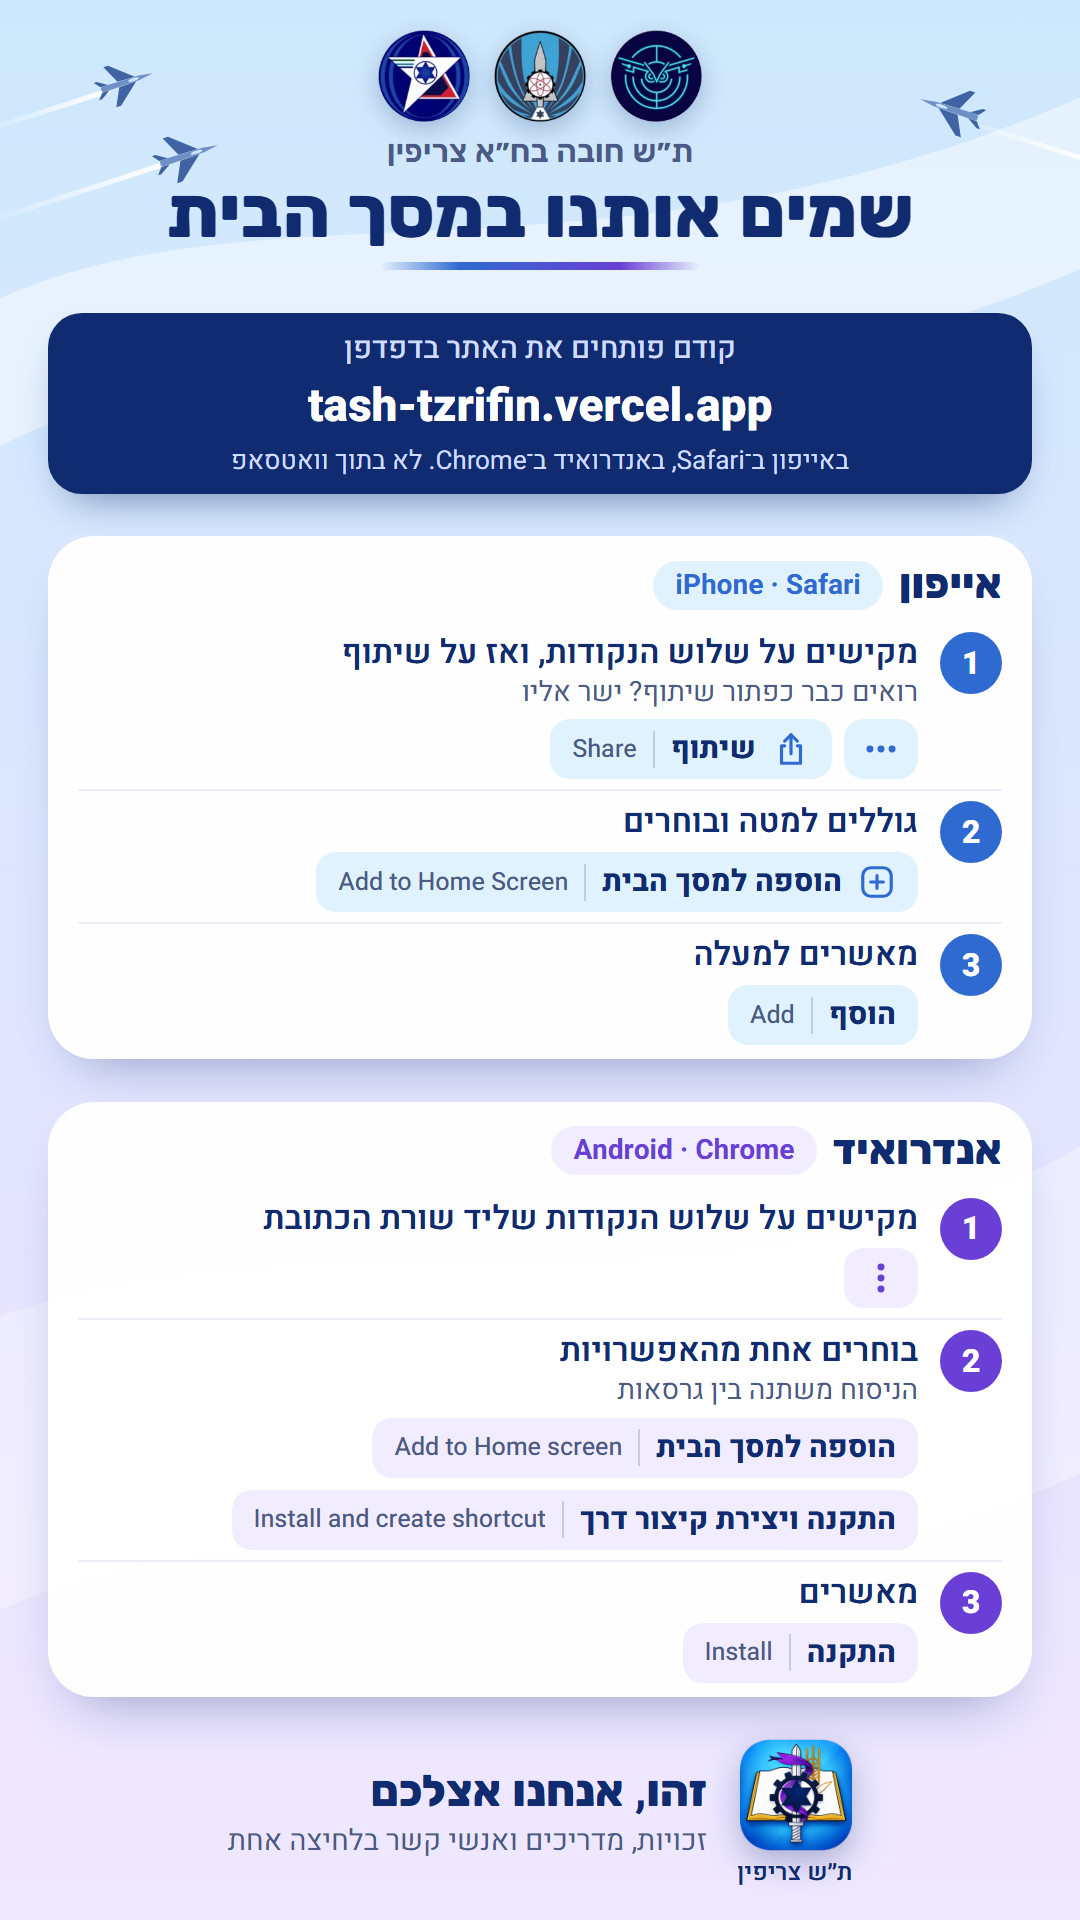
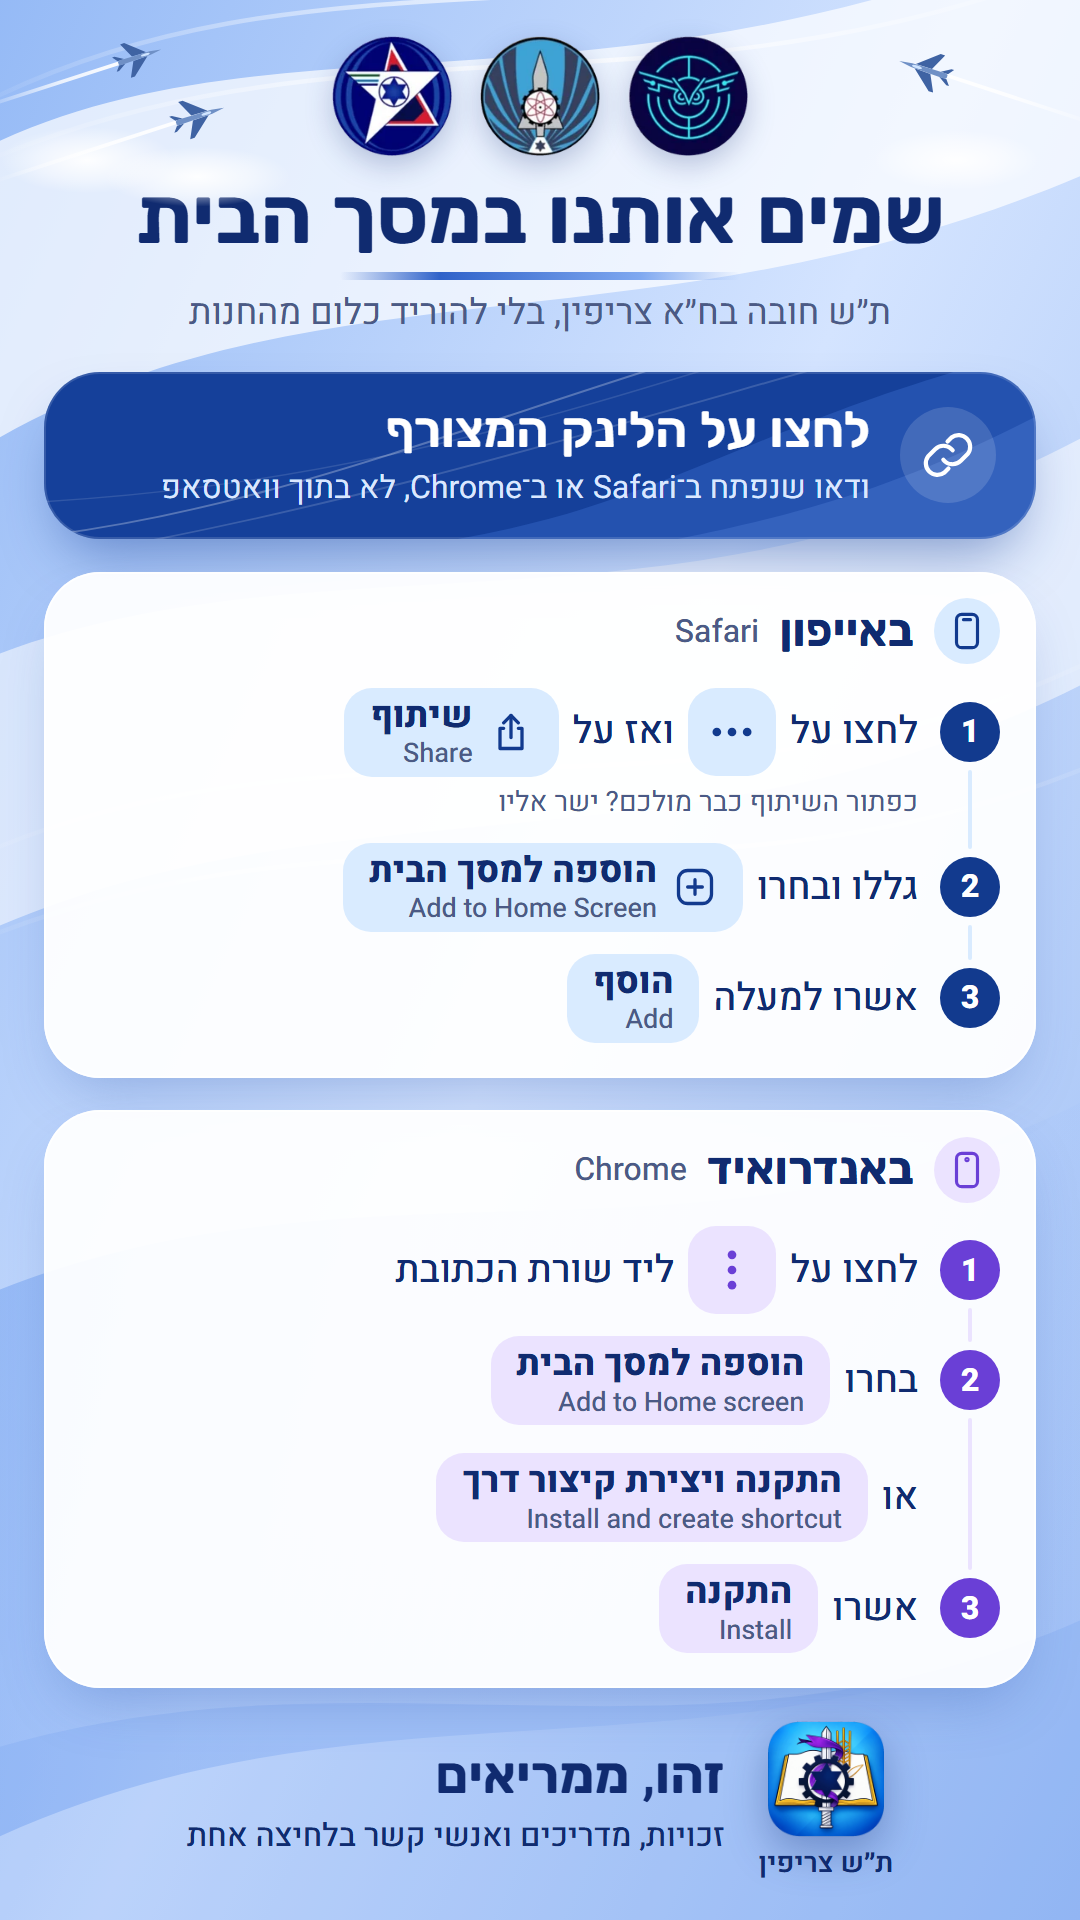
Flyer: redesign in the home page's visual language (same sky and wave tile artwork), ask to tap the attached link instead of printing the address

diff --git a/design/flyer/flyer.html b/design/flyer/flyer.html
@@ -6,139 +6,158 @@
 @font-face{font-family:H;src:url(../../node_modules/@fontsource-variable/heebo/files/heebo-hebrew-wght-normal.woff2);font-weight:100 900;unicode-range:U+0590-05FF,U+200C-2010,U+20AA,U+FB1D-FB4F}
 @font-face{font-family:H;src:url(../../node_modules/@fontsource-variable/heebo/files/heebo-latin-wght-normal.woff2);font-weight:100 900;unicode-range:U+0000-00FF,U+2013-2014,U+2018-2019,U+201C-201D,U+2022,U+2026}
 @font-face{font-family:R;src:url(../../node_modules/@fontsource-variable/rubik/files/rubik-hebrew-wght-normal.woff2);font-weight:300 900;unicode-range:U+0590-05FF,U+200C-2010,U+20AA,U+FB1D-FB4F}
-:root{--navy:#102b70;--blue:#2f6ad0;--sky:#e0f2fe;--purple:#6a3fd6;--soft-purple:#f1ecff;--ink-soft:#4b5a86}
+
+/* הצבעים, הרקע והכרטיסים לקוחים מדף הבית באתר */
+:root{--navy:#102b70;--ink-soft:#4b5a86;--deep-tile:#15409a}
 *{box-sizing:border-box;margin:0;padding:0}
 html,body{width:1080px;height:1920px;overflow:hidden}
-body{font-family:H,sans-serif;color:var(--navy);position:relative;
-  background:linear-gradient(180deg,#cde8fc 0%,#d9e8fe 30%,#e8e4ff 72%,#efe8ff 100%)}
-.bg{position:absolute;inset:0;width:1080px;height:1920px}
-main{position:relative;height:100%;padding:30px 48px;gap:20px;display:flex;flex-direction:column;justify-content:space-between}
+body{font-family:H,sans-serif;color:var(--navy);background:#d3e3fb url(bg-home.svg) center/cover no-repeat}
+svg.i{fill:none;stroke:currentColor;stroke-width:1.8;stroke-linecap:round;stroke-linejoin:round;flex:none}
+main{height:100%;gap:22px;padding:36px 44px 36px;display:flex;flex-direction:column;justify-content:space-between}
 
-header{text-align:center}
-.units{display:flex;justify-content:center;gap:24px}
-.units img{width:92px;height:92px;filter:drop-shadow(0 8px 12px rgb(16 43 112 / .25))}
-.org{margin-top:6px;font:600 32px R,H;color:var(--ink-soft)}
-h1{font:800 72px/1.1 R,H}
-.line{width:320px;height:8px;border-radius:8px;margin:8px auto 0;
-  background:linear-gradient(90deg,transparent,var(--blue) 25%,var(--purple) 75%,transparent)}
+header{position:relative;text-align:center}
+.units{display:flex;justify-content:center;gap:28px}
+.units img{width:120px;height:120px;filter:drop-shadow(0 10px 14px rgb(16 43 112 / .24))}
+.sky{position:absolute;width:250px;height:160px;overflow:visible;top:-6px}
+.sky.l{left:-20px}
+.sky.r{right:-20px;transform:scaleX(-1)}
+h1{font:700 80px/1.1 R,H;margin-top:18px;white-space:nowrap}
+.title-line{height:8px;width:400px;border-radius:8px;margin:10px auto 0;
+  background:linear-gradient(90deg,rgb(16 43 112 / 0),#2f62c9 25%,#7fa8f0 75%,rgb(127 168 240 / 0))}
+.lead{font-size:36px;color:var(--ink-soft);margin-top:6px;white-space:nowrap}
 
-.open{background:var(--navy);color:#fff;border-radius:34px;padding:14px 30px;text-align:center;
-  box-shadow:0 22px 44px -22px rgb(16 43 112 / .6)}
-.open p{font-size:30px;font-weight:500;color:#cfdcff}
-.open .url{display:block;direction:ltr;font-size:46px;font-weight:800;margin:2px 0}
-.open small{display:block;font-size:26px;color:#cfdcff}
+/* כרטיס כחול כמו "זכויות והטבות" */
+.link{display:flex;align-items:center;gap:30px;padding:30px 40px;border-radius:56px;color:#fff;
+  background:var(--deep-tile) url(tile-waves.svg) center/100% 100% no-repeat;
+  box-shadow:0 30px 56px -18px rgb(21 64 154 / .5),inset 0 0 0 2px rgb(255 255 255 / .14)}
+.link .ico{width:96px;height:96px;border-radius:50%;background:rgb(255 255 255 / .14);display:grid;place-items:center}
+.link .ico svg{width:56px;height:56px}
+.link strong{display:block;font:600 50px/1.2 R,H}
+.link span.d{display:block;font-size:32px;color:#dbe7ff;margin-top:4px;line-height:1.35}
 
-section{--accent:var(--blue);--wash:var(--sky);background:rgb(255 255 255 / .96);border-radius:46px;padding:18px 30px 4px;
-  box-shadow:0 28px 56px -30px rgb(16 43 112 / .45)}
-section.android{--accent:var(--purple);--wash:var(--soft-purple)}
-h2{font:800 42px R,H;display:flex;align-items:center;gap:16px;margin-bottom:6px}
-h2 .tag{direction:ltr;font:700 28px H;color:var(--accent);background:var(--wash);border-radius:99px;padding:4px 22px;margin-inline-start:auto}
+section{--accent:#123a8e;--wash:#d9ebff;background:rgb(255 255 255 / .94);border-radius:56px;padding:26px 36px 24px;
+  box-shadow:0 28px 60px -22px rgb(40 80 170 / .35),inset 0 0 0 2px rgb(255 255 255 / .8)}
+section.android{--accent:#6a3fd6;--wash:#ebe3ff}
+h2{display:flex;align-items:center;gap:20px;font:700 46px R,H;margin-bottom:12px}
+h2 .ico{width:66px;height:66px;border-radius:50%;background:var(--wash);color:var(--accent);display:grid;place-items:center}
+h2 .ico svg{width:42px;height:42px}
+h2 small{font:500 32px H;color:var(--ink-soft);margin-inline-start:auto;direction:ltr}
+
 ol{list-style:none}
-li{display:grid;grid-template-columns:62px 1fr;gap:22px;padding:10px 0}
-li+li{border-top:2px solid #e9eef9}
-.n{width:62px;height:62px;border-radius:50%;background:var(--accent);color:#fff;font:800 32px H;display:grid;place-items:center}
-.t{font-size:33px;font-weight:600;line-height:1.3}
-.t em{display:block;font-size:28px;font-style:normal;color:var(--ink-soft);font-weight:400}
-.keys{display:flex;flex-wrap:wrap;align-items:center;gap:12px;margin-top:8px}
-.key{display:flex;align-items:center;gap:16px;background:var(--wash);border-radius:20px;padding:8px 22px;min-height:60px}
-.key b{font-size:30px;font-weight:800;white-space:nowrap}
-.key i{font-style:normal;direction:ltr;font-size:25px;font-weight:500;color:var(--ink-soft);white-space:nowrap;
-  border-right:2px solid rgb(16 43 112 / .18);padding-right:16px}
-.key svg{width:38px;height:38px;flex:none;color:var(--accent)}
-.key.icon-only{padding:8px 18px}
-.or{font-size:26px;color:var(--ink-soft)}
+li{display:flex;align-items:flex-start;gap:22px;padding:11px 0;position:relative}
+.n{width:60px;height:60px;border-radius:50%;background:var(--accent);color:#fff;font:800 32px H;display:grid;place-items:center;flex:none;margin-top:14px}
+li:not(:last-child)::after{content:"";position:absolute;right:28px;width:4px;top:93px;bottom:-17px;border-radius:4px;background:var(--wash)}
+.body{min-height:88px;align-content:center;display:flex;flex-wrap:wrap;align-items:center;gap:14px;font-size:38px;font-weight:500;line-height:1.3;flex:1}
+.or{flex-basis:100%;height:0;margin-top:-14px}
+.note{flex-basis:100%;font-size:28px;font-weight:400;color:var(--ink-soft);margin-top:-6px}
 
-footer{display:flex;align-items:center;justify-content:center;gap:30px}
+/* כפתור כפי שהוא מופיע בטלפון: עברית ומתחתיה אנגלית */
+.key{display:inline-flex;align-items:center;gap:16px;min-height:88px;padding:6px 26px;border-radius:28px;background:var(--wash)}
+.key b{display:block;font-size:36px;font-weight:800;line-height:1.2;white-space:nowrap}
+.key i{display:block;font-style:normal;font-size:27px;line-height:1.25;color:var(--ink-soft);direction:ltr;text-align:right;white-space:nowrap}
+.key svg{width:44px;height:44px;color:var(--accent)}
+.key.dots{width:88px;padding:0;justify-content:center}
+.key.dots svg{width:52px;height:52px}
+
+footer{display:flex;align-items:center;justify-content:center;gap:34px}
 footer figure{text-align:center}
-footer img{width:112px;height:112px;display:block;filter:drop-shadow(0 12px 16px rgb(16 43 112 / .3))}
-footer figcaption{font-size:24px;font-weight:600;margin-top:4px}
-footer p{font:800 44px/1.2 R,H}
-footer p span{display:block;font:400 29px H;color:var(--ink-soft)}
+footer img{width:116px;height:116px;display:block;margin:auto;filter:drop-shadow(0 16px 20px rgb(16 43 112 / .32))}
+footer figcaption{font-size:28px;font-weight:600;margin-top:6px}
+footer p{font:700 52px/1.2 R,H}
+footer p span{display:block;font:500 32px H;color:var(--navy);margin-top:4px}
 </style>
 </head>
 <body>
-<svg class="bg" viewBox="0 0 1080 1920" aria-hidden="true">
+<svg width="0" height="0" style="position:absolute" aria-hidden="true">
   <defs>
-    <linearGradient id="trail" x1="0" x2="1"><stop offset="0" stop-color="#fff" stop-opacity="0"/><stop offset="1" stop-color="#fff"/></linearGradient>
+    <linearGradient id="tr" x1="0" y1="0" x2="1" y2="0"><stop offset="0" stop-color="#fff" stop-opacity="0"/><stop offset=".6" stop-color="#fff" stop-opacity=".8"/><stop offset="1" stop-color="#fff" stop-opacity=".95"/></linearGradient>
+    <radialGradient id="cl"><stop offset="0" stop-color="#fff" stop-opacity=".95"/><stop offset=".6" stop-color="#fff" stop-opacity=".45"/><stop offset="1" stop-color="#fff" stop-opacity="0"/></radialGradient>
     <symbol id="jet" viewBox="-34 -24 68 48" overflow="visible">
       <path d="M10-2.4-12-21h-5L-8-2.8Z M10 2.4-12 21h-5L-8 2.8Z" fill="#3f63a3"/>
       <path d="M-18-2.8-28-9h-3l5 6.2Z M-18 2.8-28 9h-3l5-6.2Z" fill="#3f63a3"/>
       <path d="M28 0 14-2.2-6-2.6-24-3l-2 1.4v3.2L-24 3-6 2.6 14 2.2Z" fill="#6f90c6"/>
       <ellipse cx="8" cy="0" rx="5.5" ry="1.5" fill="#cfe4ff"/>
     </symbol>
+    <symbol id="dots" viewBox="0 0 24 24"><circle cx="5" cy="12" r="2"/><circle cx="12" cy="12" r="2"/><circle cx="19" cy="12" r="2"/></symbol>
   </defs>
-  <path d="M-60 330C230 150 600 330 1140 70V240C660 490 280 260-60 480Z" fill="#fff" opacity=".45"/>
-  <path d="M-60 1340C320 1170 740 1380 1140 1110V1440C730 1690 330 1420-60 1640Z" fill="#fff" opacity=".3"/>
-  <g stroke="url(#trail)" stroke-width="5" stroke-linecap="round" fill="none">
-    <path d="M-20 132 108 91"/><path d="M-20 224 168 163"/><path d="M1100 164 962 120" />
-  </g>
-  <use href="#jet" x="92" y="58" width="68" height="48" transform="rotate(-18 126 82)"/>
-  <use href="#jet" x="150" y="128" width="76" height="54" transform="rotate(-18 188 155)"/>
-  <use href="#jet" x="912" y="82" width="76" height="54" transform="rotate(198 950 109)"/>
 </svg>
 
 <main>
   <header>
+    <!-- אותם מטוסים כמו בכותרת של דף הבית -->
+    <svg class="sky l" viewBox="0 0 150 96" aria-hidden="true">
+      <ellipse cx="38" cy="78" rx="52" ry="20" fill="url(#cl)"/><ellipse cx="104" cy="88" rx="56" ry="18" fill="url(#cl)"/>
+      <g stroke="url(#tr)" stroke-linecap="round" fill="none" stroke-width="2.2"><path d="M-30 48 57 20"/><path d="M-20 91.5 91 55.5"/></g>
+      <use href="#jet" x="52" y="4" width="34" height="24" transform="rotate(-18 69 16)"/><use href="#jet" x="86" y="38" width="38" height="27" transform="rotate(-18 105 51)"/>
+    </svg>
+    <svg class="sky r" viewBox="0 0 150 96" aria-hidden="true">
+      <ellipse cx="60" cy="78" rx="50" ry="18" fill="url(#cl)"/>
+      <path d="M-30 58.5 65 27.5" stroke="url(#tr)" stroke-linecap="round" fill="none" stroke-width="2.2"/>
+      <use href="#jet" x="60" y="10" width="38" height="27" transform="rotate(-18 79 23)"/>
+    </svg>
     <div class="units">
-      <img src="../../public/logos/ofek.webp" alt="">
-      <img src="../../public/logos/f108.webp" alt="">
-      <img src="../../public/logos/lahav.webp" alt="">
+      <img src="../../public/logos/ofek.webp" alt="אופק">
+      <img src="../../public/logos/f108.webp" alt="108">
+      <img src="../../public/logos/lahav.webp" alt="לה״ב">
     </div>
-    <div class="org">ת״ש חובה בח״א צריפין</div>
     <h1>שמים אותנו במסך הבית</h1>
-    <div class="line"></div>
+    <div class="title-line"></div>
+    <p class="lead">ת״ש חובה בח״א צריפין, בלי להוריד כלום מהחנות</p>
   </header>
 
-  <div class="open">
-    <p>קודם פותחים את האתר בדפדפן</p>
-    <span class="url">tash-tzrifin.vercel.app</span>
-    <small>באייפון ב־Safari, באנדרואיד ב־Chrome. לא בתוך וואטסאפ</small>
+  <div class="link">
+    <span class="ico"><svg class="i" viewBox="0 0 24 24"><path d="M10 14a5 5 0 0 0 7.5.5l3-3a5 5 0 0 0-7-7l-1.7 1.7"/><path d="M14 10a5 5 0 0 0-7.5-.5l-3 3a5 5 0 0 0 7 7l1.7-1.7"/></svg></span>
+    <div>
+      <strong>לחצו על הלינק המצורף</strong>
+      <span class="d">ודאו שנפתח ב־Safari או ב־Chrome, לא בתוך וואטסאפ</span>
+    </div>
   </div>
 
   <section class="iphone">
-    <h2>אייפון <span class="tag">iPhone · Safari</span></h2>
+    <h2>
+      <span class="ico"><svg class="i" viewBox="0 0 24 24"><rect x="6" y="2.5" width="12" height="19" rx="3"/><path d="M10 5.5h4"/></svg></span>
+      באייפון<small>Safari</small>
+    </h2>
     <ol>
-      <li><span class="n">1</span><div>
-        <div class="t">מקישים על שלוש הנקודות, ואז על שיתוף <em>רואים כבר כפתור שיתוף? ישר אליו</em></div>
-        <div class="keys">
-          <span class="key icon-only"><svg viewBox="0 0 24 24" fill="currentColor"><circle cx="5" cy="12" r="2.2"/><circle cx="12" cy="12" r="2.2"/><circle cx="19" cy="12" r="2.2"/></svg></span>
-          <span class="key"><svg viewBox="0 0 24 24" fill="none" stroke="currentColor" stroke-width="2" stroke-linecap="round" stroke-linejoin="round"><path d="M12 15V3"/><path d="m8 7 4-4 4 4"/><path d="M8 10H6v11h12V10h-2"/></svg><b>שיתוף</b><i>Share</i></span>
-        </div>
+      <li><span class="n">1</span><div class="body">
+        לחצו על
+        <span class="key dots"><svg fill="currentColor"><use href="#dots"/></svg></span>
+        ואז על
+        <span class="key"><svg class="i" viewBox="0 0 24 24"><path d="M12 15V3"/><path d="m8 7 4-4 4 4"/><path d="M8 10H6v11h12V10h-2"/></svg><span><b>שיתוף</b><i>Share</i></span></span>
+        <span class="note">כפתור השיתוף כבר מולכם? ישר אליו</span>
       </div></li>
-      <li><span class="n">2</span><div>
-        <div class="t">גוללים למטה ובוחרים</div>
-        <div class="keys">
-          <span class="key"><svg viewBox="0 0 24 24" fill="none" stroke="currentColor" stroke-width="2" stroke-linecap="round"><rect x="3" y="3" width="18" height="18" rx="5"/><path d="M12 8v8M8 12h8"/></svg><b>הוספה למסך הבית</b><i>Add to Home Screen</i></span>
-        </div>
+      <li><span class="n">2</span><div class="body">
+        גללו ובחרו
+        <span class="key"><svg class="i" viewBox="0 0 24 24"><rect x="3" y="3" width="18" height="18" rx="5"/><path d="M12 8v8M8 12h8"/></svg><span><b>הוספה למסך הבית</b><i>Add to Home Screen</i></span></span>
       </div></li>
-      <li><span class="n">3</span><div>
-        <div class="t">מאשרים למעלה</div>
-        <div class="keys"><span class="key"><b>הוסף</b><i>Add</i></span></div>
+      <li><span class="n">3</span><div class="body">
+        אשרו למעלה
+        <span class="key"><span><b>הוסף</b><i>Add</i></span></span>
       </div></li>
     </ol>
   </section>
 
   <section class="android">
-    <h2>אנדרואיד <span class="tag">Android · Chrome</span></h2>
+    <h2>
+      <span class="ico"><svg class="i" viewBox="0 0 24 24"><rect x="6" y="2.5" width="12" height="19" rx="3"/><circle cx="12" cy="6" r=".6"/></svg></span>
+      באנדרואיד<small>Chrome</small>
+    </h2>
     <ol>
-      <li><span class="n">1</span><div>
-        <div class="t">מקישים על שלוש הנקודות שליד שורת הכתובת</div>
-        <div class="keys">
-          <span class="key icon-only"><svg viewBox="0 0 24 24" fill="currentColor"><circle cx="12" cy="5" r="2.2"/><circle cx="12" cy="12" r="2.2"/><circle cx="12" cy="19" r="2.2"/></svg></span>
-        </div>
+      <li><span class="n">1</span><div class="body">
+        לחצו על
+        <span class="key dots"><svg fill="currentColor" viewBox="0 0 24 24"><circle cx="12" cy="5" r="2"/><circle cx="12" cy="12" r="2"/><circle cx="12" cy="19" r="2"/></svg></span>
+        ליד שורת הכתובת
       </div></li>
-      <li><span class="n">2</span><div>
-        <div class="t">בוחרים אחת מהאפשרויות <em>הניסוח משתנה בין גרסאות</em></div>
-        <div class="keys">
-          <span class="key"><b>הוספה למסך הבית</b><i>Add to Home screen</i></span>
-          <span class="key"><b>התקנה ויצירת קיצור דרך</b><i>Install and create shortcut</i></span>
-        </div>
+      <li><span class="n">2</span><div class="body">
+        בחרו
+        <span class="key"><span><b>הוספה למסך הבית</b><i>Add to Home screen</i></span></span>
+        <span class="or"></span>
+        או
+        <span class="key"><span><b>התקנה ויצירת קיצור דרך</b><i>Install and create shortcut</i></span></span>
       </div></li>
-      <li><span class="n">3</span><div>
-        <div class="t">מאשרים</div>
-        <div class="keys">
-          <span class="key"><b>התקנה</b><i>Install</i></span>
-        </div>
+      <li><span class="n">3</span><div class="body">
+        אשרו
+        <span class="key"><span><b>התקנה</b><i>Install</i></span></span>
       </div></li>
     </ol>
   </section>
@@ -148,7 +167,7 @@ footer p span{display:block;font:400 29px H;color:var(--ink-soft)}
       <img src="../../public/icons/512.png" alt="">
       <figcaption>ת״ש צריפין</figcaption>
     </figure>
-    <p>זהו, אנחנו אצלכם<span>זכויות, מדריכים ואנשי קשר בלחיצה אחת</span></p>
+    <p>זהו, ממריאים<span>זכויות, מדריכים ואנשי קשר בלחיצה אחת</span></p>
   </footer>
 </main>
 </body>
